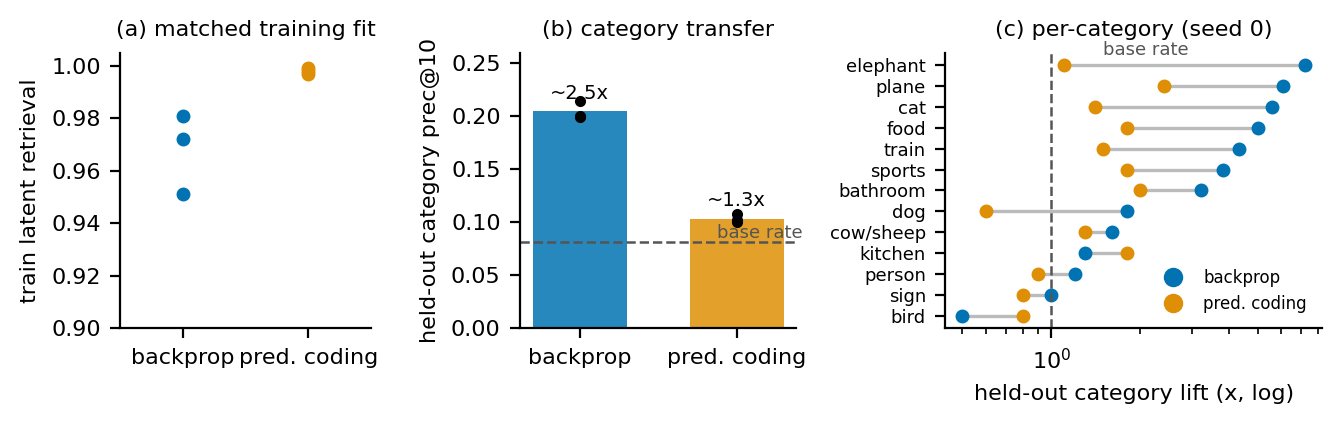
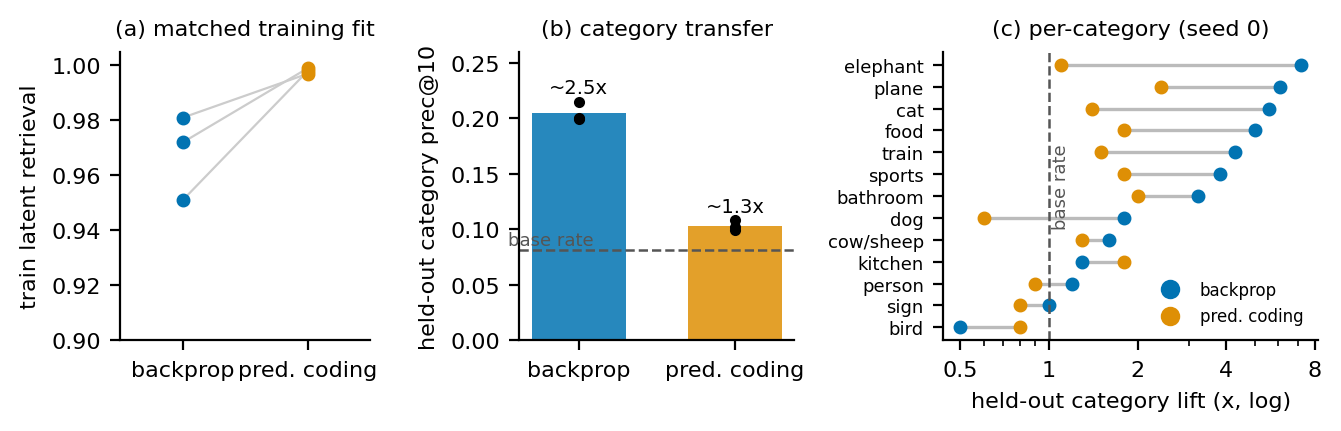
polished the results figure: readable lift ticks, moved the base-rate labels clear of the bars
Panel (c) now has explicit log-axis ticks at 0.5/1/2/4/8 with plain-number
labels instead of a single unreadable 10^0 tick. Fixed the ~2.5x annotation
in panel (b) overlapping the topmost seed dot, and moved both base-rate
labels off the bars/elephant connector and onto the dashed reference line
where they actually belong. Also added the per-seed pairing lines in panel
(a) that the caption already promised.

diff --git a/tools/make_results_figure.py b/tools/make_results_figure.py
@@ -8,15 +8,16 @@ f,(a,b,c)=plt.subplots(1,3,figsize=(6.75,2.2),gridspec_kw={"width_ratios":[1,1.1
 # (a) matched fit
 fit_bp=[.981,.951,.972]; fit_pc=[.997,.998,.999]
 for i,(u,v) in enumerate(zip(fit_bp,fit_pc)):
-    a.plot([0],[u],"o",c=BP,ms=4); a.plot([1],[v],"o",c=PC,ms=4)
+    a.plot([0,1],[u,v],"-",c="#ccc",lw=.8,zorder=1)
+    a.plot([0],[u],"o",c=BP,ms=4,zorder=2); a.plot([1],[v],"o",c=PC,ms=4,zorder=2)
 a.set_xticks([0,1],["backprop","pred. coding"]); a.set_xlim(-.5,1.5); a.set_ylim(.9,1.005)
 a.set_ylabel("train latent retrieval"); a.set_title("(a) matched training fit",fontsize=8)
 # (b) headline
 pb=[.2146,.2001,.1995]; pp=[.0998,.1080,.1023]; base=.0815
 b.bar([0],[np.mean(pb)],.6,color=BP,alpha=.85); b.bar([1],[np.mean(pp)],.6,color=PC,alpha=.85)
 b.plot([0]*3,pb,"o",c="k",ms=3,zorder=3); b.plot([1]*3,pp,"o",c="k",ms=3,zorder=3)
-b.axhline(base,ls="--",c="#555",lw=.9); b.text(1.42,base+.004,"base rate",fontsize=6.5,color="#555",ha="right")
-b.text(0,np.mean(pb)+.012,"~2.5x",ha="center",fontsize=7); b.text(1,np.mean(pp)+.012,"~1.3x",ha="center",fontsize=7)
+b.axhline(base,ls="--",c="#555",lw=.9); b.text(-.45,base+.004,"base rate",fontsize=6.5,color="#555",ha="left")
+b.text(0,max(pb)+.008,"~2.5x",ha="center",fontsize=7); b.text(1,np.mean(pp)+.012,"~1.3x",ha="center",fontsize=7)
 b.set_xticks([0,1],["backprop","pred. coding"]); b.set_ylabel("held-out category prec@10")
 b.set_title("(b) category transfer",fontsize=8); b.set_ylim(0,.26)
 # (c) dumbbells (seed 0)
@@ -29,7 +30,9 @@ for i,(n,vb,vp) in enumerate(cats):
     c.plot([vb],[i],"o",c=BP,ms=4,zorder=2); c.plot([vp],[i],"o",c=PC,ms=4,zorder=2)
 c.set_yticks(range(len(cats)),[t[0] for t in cats],fontsize=6.5)
 c.set_xscale("log"); c.axvline(1,ls="--",c="#555",lw=.9)
-c.text(1.5,len(cats)-0.5,"base rate",fontsize=6.5,color="#555")
+c.set_xticks([0.5,1,2,4,8]); c.xaxis.set_major_formatter(plt.FuncFormatter(lambda v,_: f"{v:g}"))
+c.xaxis.set_minor_formatter(plt.NullFormatter())
+c.text(1.1,4.5,"base rate",fontsize=6.5,color="#555",rotation=90,va="bottom",ha="center")
 c.set_xlabel("held-out category lift (x, log)"); c.set_title("(c) per-category (seed 0)",fontsize=8)
 c.plot([],[],"o",c=BP,label="backprop"); c.plot([],[],"o",c=PC,label="pred. coding")
 c.legend(fontsize=6,frameon=False,loc="lower right")
